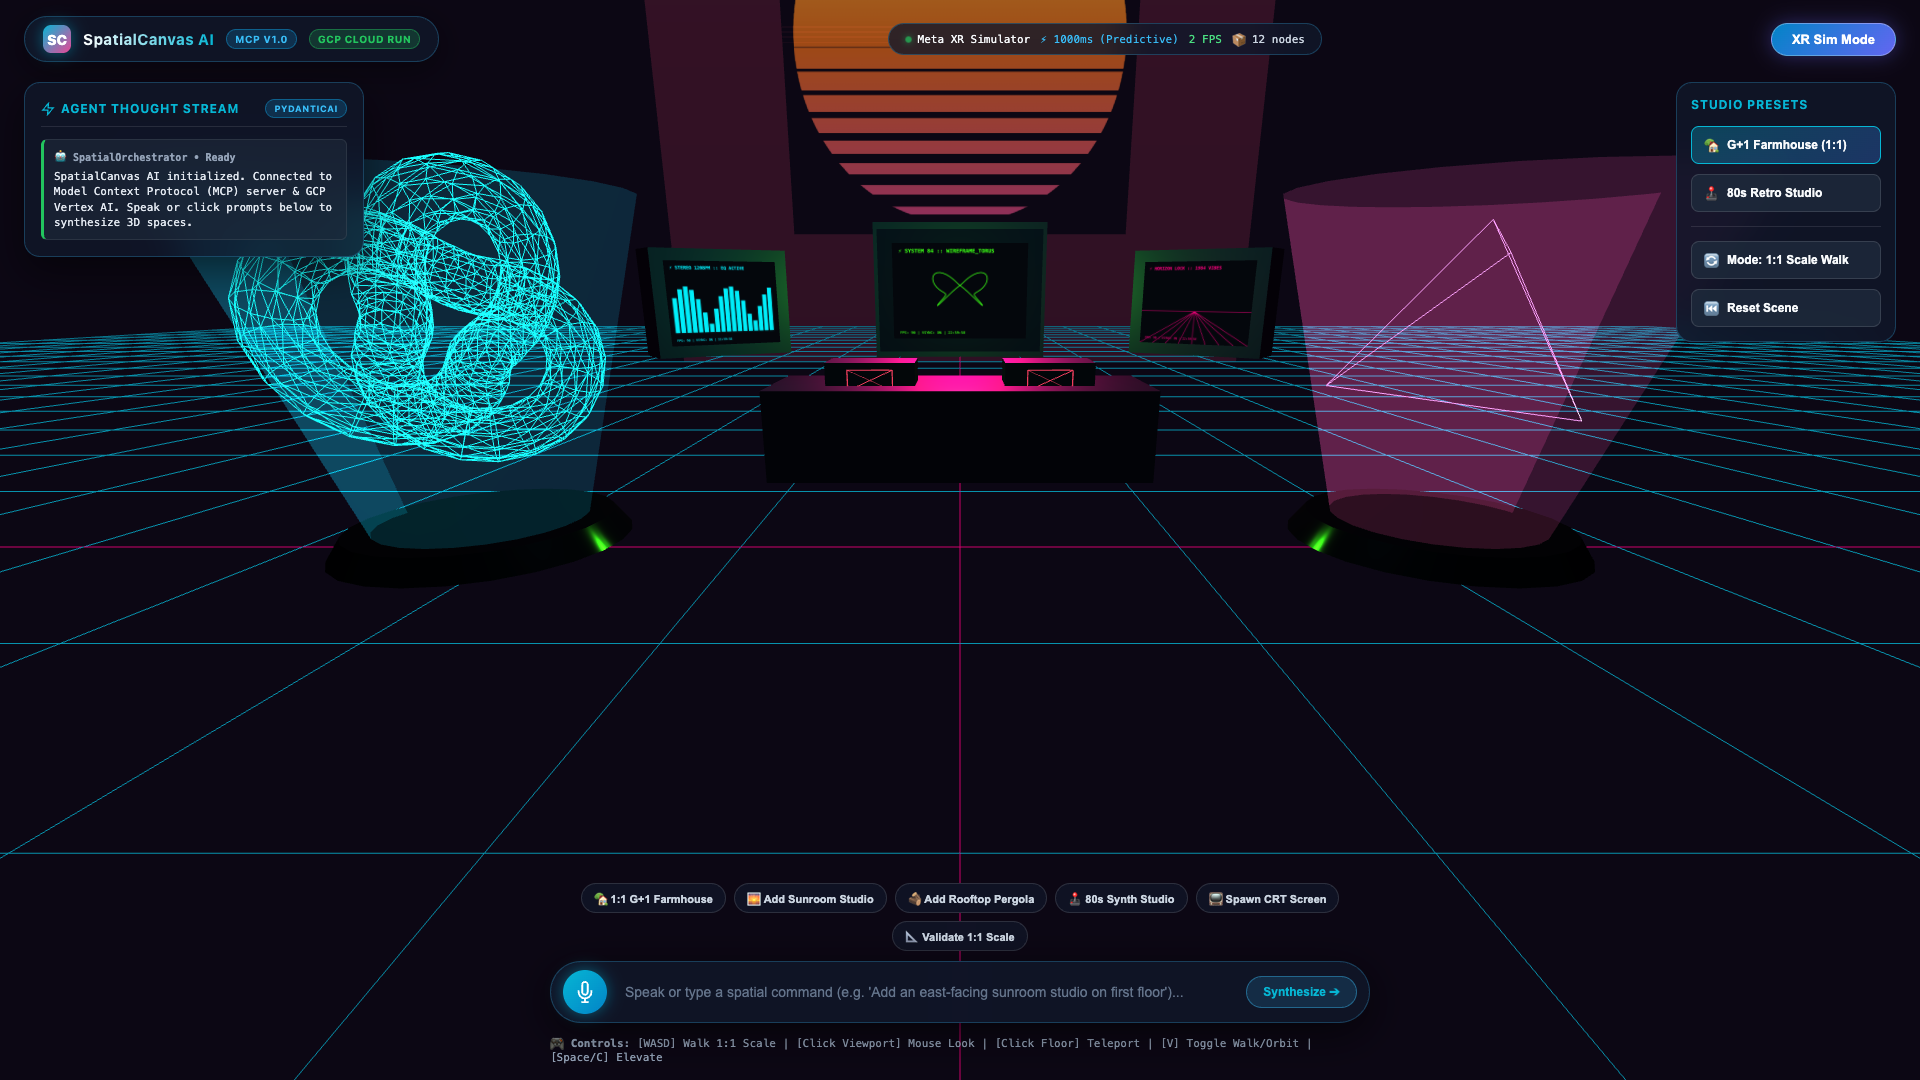
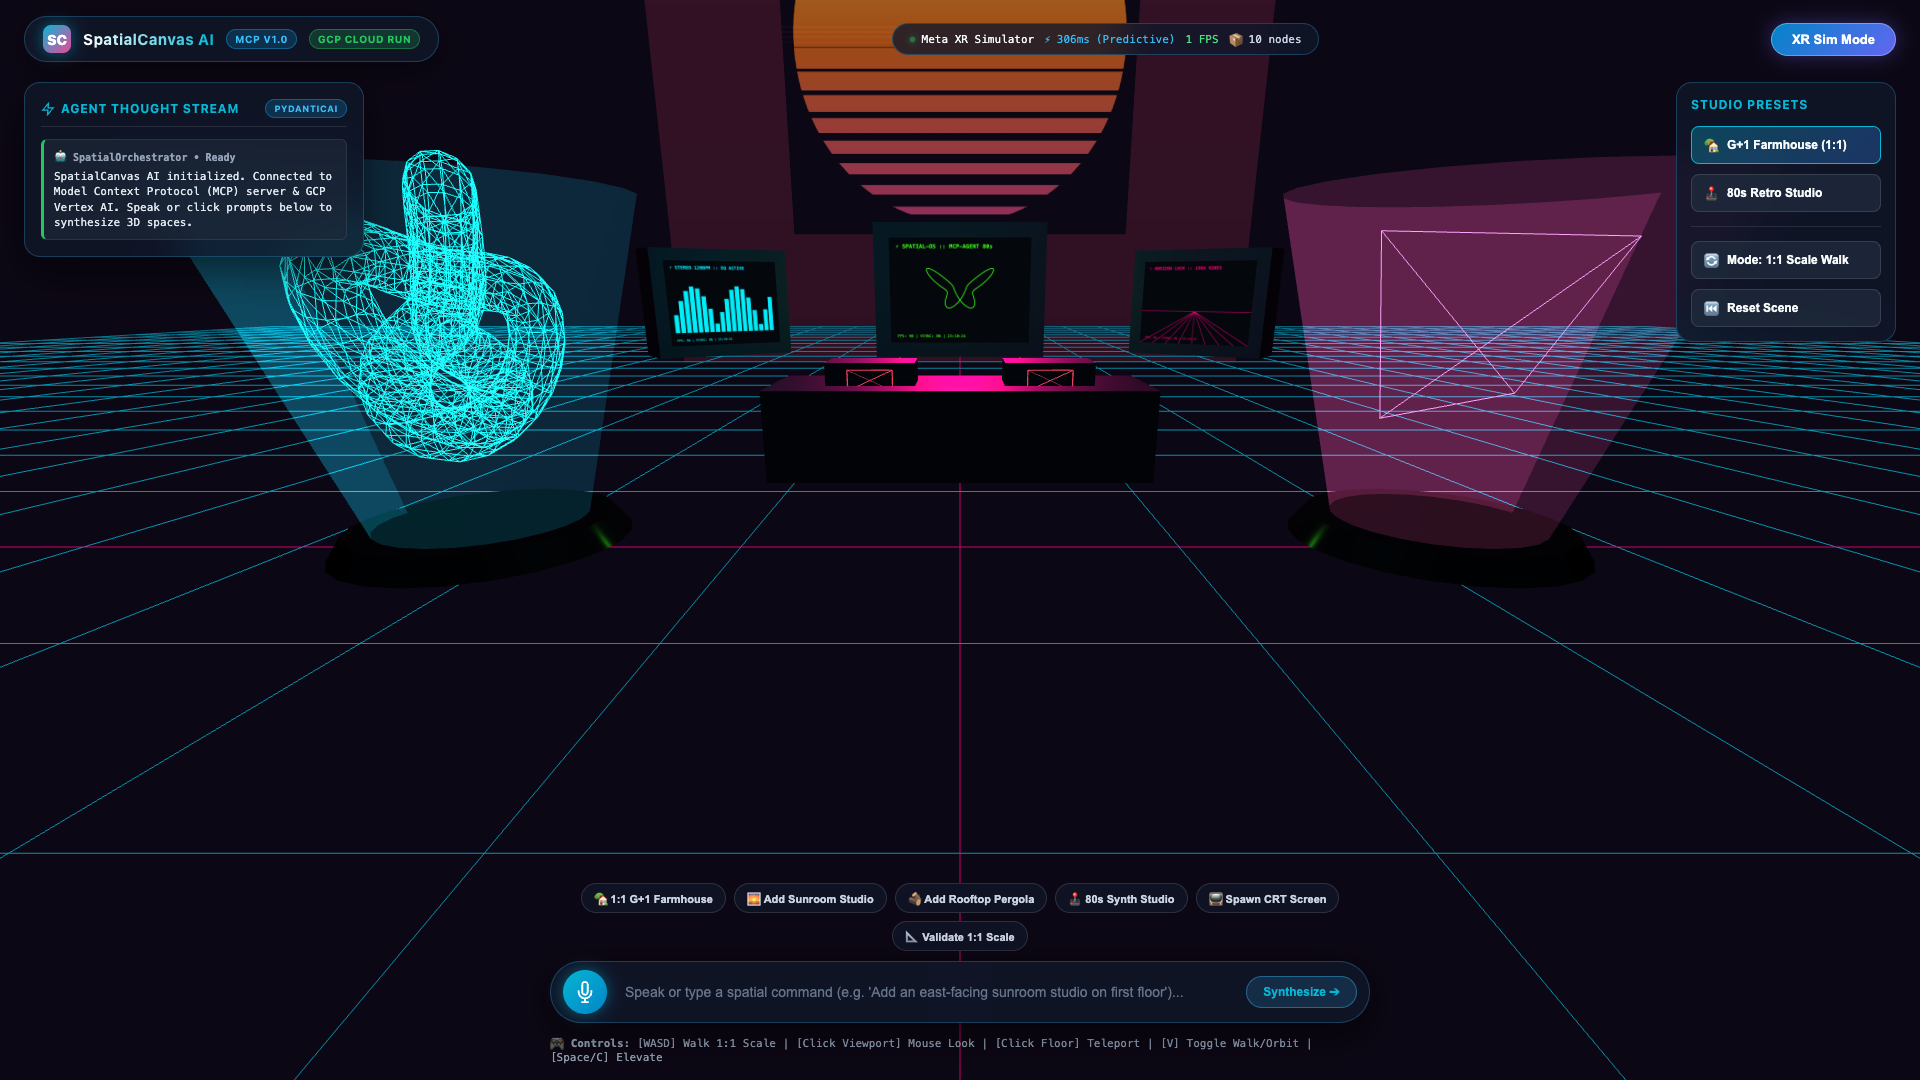
feat(spatialcanvas-ai): execute recording commands and compile presentation demo walkthrough GIF

diff --git a/apps/jamstack-frontend/js/git-intelligence.js b/apps/jamstack-frontend/js/git-intelligence.js
@@ -17,10 +17,10 @@ export const STATIC_GIT_SNAPSHOT = {
     open_issues: 0,
     license: "MIT",
     language: "Python / TypeScript / Go",
-    pushed_at: "2026-11-04T17:33:02.619643+00:00"
+    pushed_at: "2026-11-04T17:41:31.802420+00:00"
   },
   activeBranch: "main",
-  headCommit: "ce6952f",
+  headCommit: "dcdc1de",
   presubmitAudit: {
     status: "PASSED",
     score: "5 / 5 Checks Green",
@@ -33,6 +33,23 @@ export const STATIC_GIT_SNAPSHOT = {
     ]
   },
   commits: [
+    {
+        "hash": "dcdc1de",
+        "fullHash": "dcdc1de91d8dfb2e0ec006aca556f335da0ede52",
+        "author": "Abhijeet Raut",
+        "authorTag": "@arauthub",
+        "date": "2026-11-04 23:03:02 +0530",
+        "relativeDate": "8 minutes ago",
+        "message": "docs(spatialcanvas-ai): add video presentation script options and inspiration screenshots gallery",
+        "type": "docs",
+        "badge": "Docs",
+        "branch": "main",
+        "stats": {
+            "additions": 14,
+            "deletions": 2,
+            "filesChanged": 1
+        }
+    },
     {
         "hash": "ce6952f",
         "fullHash": "ce6952f53fd10102bf7faaff12b384a707cb7912",
@@ -179,23 +196,6 @@ export const STATIC_GIT_SNAPSHOT = {
         "message": "feat: enterprise luxury storefronts, spec-driven development, and Synapse LMS",
         "type": "feat",
         "badge": "Feat",
-        "branch": "main",
-        "stats": {
-            "additions": 14,
-            "deletions": 2,
-            "filesChanged": 1
-        }
-    },
-    {
-        "hash": "4af1f60",
-        "fullHash": "4af1f6032250f53932b4f913bf4d16a44d30229d",
-        "author": "Abhijeet Raut",
-        "authorTag": "@arauthub",
-        "date": "2026-10-30 20:58:36 +0530",
-        "relativeDate": "5 days ago",
-        "message": "fix(profile): update Cybage tenure (2017-Present), Persistent tenure (2014-2017), and education to MCA (2014)",
-        "type": "chore",
-        "badge": "Chore",
         "branch": "main",
         "stats": {
             "additions": 14,

diff --git a/hackthon-devpost/spatialcanvas-ai/scripts/generate_animated_demo.py b/hackthon-devpost/spatialcanvas-ai/scripts/generate_animated_demo.py
@@ -1,0 +1,124 @@
+"""SpatialCanvas AI - Automated Presentation Video/GIF Generator.
+Compiles captured 1080p spatial studio screenshots into an animated,
+multi-scene demo walkthrough with crossfades and title lower-thirds.
+"""
+
+import os
+from PIL import Image, ImageDraw, ImageFont
+
+SCREENSHOTS_DIR = os.path.abspath(
+    os.path.join(os.path.dirname(__file__), "../frontend/assets/screenshots")
+)
+OUTPUT_GIF = os.path.join(SCREENSHOTS_DIR, "spatialcanvas_presentation_demo.gif")
+
+TARGET_SIZE = (960, 540)
+
+SCENES = [
+    {
+        "filename": "hero_concept_artwork.jpg",
+        "title": "SPATIALCANVAS AI :: AGENTIC VR CREATION STUDIO",
+        "subtitle": "Bridging Agentic AI (MCP + PydanticAI) with Meta Quest Spatial Computing",
+        "hold_frames": 22,
+    },
+    {
+        "filename": "screenshot_farmhouse_studio.png",
+        "title": "SHOWCASE 1 :: 1:1 SCALE G+1 FARMHOUSE WALKTHROUGH",
+        "subtitle": "Living Hall (3.6m Headroom) & Sunlit Central Courtyard with CAD Metrics",
+        "hold_frames": 24,
+    },
+    {
+        "filename": "screenshot_sunroom_pergola.png",
+        "title": "SHOWCASE 1 :: G+1 FIRST FLOOR EXTENSION",
+        "subtitle": "Synthesized East Sunroom Studio & Cedar Pergola Rooftop Deck",
+        "hold_frames": 24,
+    },
+    {
+        "filename": "screenshot_retro_studio.png",
+        "title": "SHOWCASE 2 :: 1980s RETRO DIGITAL MEDIA STUDIO",
+        "subtitle": "Horizon Sun, Neon Grid & Curved CRT Monitors with Live Phosphor Scanlines",
+        "hold_frames": 26,
+    },
+]
+
+
+def create_banner_frame(img: Image.Image, title: str, subtitle: str) -> Image.Image:
+    """Draws a futuristic glassmorphic lower-third HUD banner on the frame."""
+    frame = img.copy()
+    draw = ImageDraw.Draw(frame, "RGBA")
+
+    w, h = frame.size
+    banner_h = 70
+    banner_y = h - banner_h - 15
+
+    # Glassmorphism dark banner
+    draw.rectangle([30, banner_y, w - 30, banner_y + banner_h], fill=(9, 10, 15, 215))
+    # Glowing cyan border
+    draw.rectangle([30, banner_y, w - 30, banner_y + banner_h], outline=(6, 182, 212, 230), width=2)
+    # Accent pill indicator
+    draw.rectangle([38, banner_y + 12, 44, banner_y + banner_h - 12], fill=(6, 182, 212, 255))
+
+    # Text
+    draw.text((56, banner_y + 14), title, fill=(255, 255, 255, 255))
+    draw.text((56, banner_y + 40), subtitle, fill=(148, 163, 184, 255))
+
+    return frame
+
+
+def crossfade(img1: Image.Image, img2: Image.Image, steps=6):
+    """Generates crossfade transition frames between two images."""
+    fades = []
+    for step in range(1, steps):
+        alpha = step / float(steps)
+        blended = Image.blend(img1, img2, alpha)
+        fades.append(blended)
+    return fades
+
+
+def main():
+    print(f"🎬 Compiling SpatialCanvas AI presentation demo walkthrough...")
+    loaded_scenes = []
+
+    for item in SCENES:
+        p = os.path.join(SCREENSHOTS_DIR, item["filename"])
+        if not os.path.exists(p):
+            print(f"⚠ Warning: Missing {p}")
+            continue
+
+        raw = Image.open(p).convert("RGB")
+        resized = raw.resize(TARGET_SIZE, Image.Resampling.LANCZOS)
+        annotated = create_banner_frame(resized, item["title"], item["subtitle"])
+        loaded_scenes.append((annotated, item["hold_frames"]))
+
+    if not loaded_scenes:
+        print("❌ No scenes loaded.")
+        return
+
+    all_frames = []
+    for i in range(len(loaded_scenes)):
+        current_img, hold = loaded_scenes[i]
+        next_img, _ = loaded_scenes[(i + 1) % len(loaded_scenes)]
+
+        # Hold current frame
+        for _ in range(hold):
+            all_frames.append(current_img)
+
+        # Crossfade to next scene
+        fades = crossfade(current_img, next_img, steps=5)
+        all_frames.extend(fades)
+
+    # Save animated GIF
+    all_frames[0].save(
+        OUTPUT_GIF,
+        save_all=True,
+        append_images=all_frames[1:],
+        duration=90,  # ~11 FPS
+        loop=0,
+        optimize=True,
+    )
+
+    size_mb = os.path.getsize(OUTPUT_GIF) / (1024 * 1024)
+    print(f"✅ Generated presentation GIF: {OUTPUT_GIF} ({size_mb:.2f} MB, {len(all_frames)} frames)")
+
+
+if __name__ == "__main__":
+    main()
